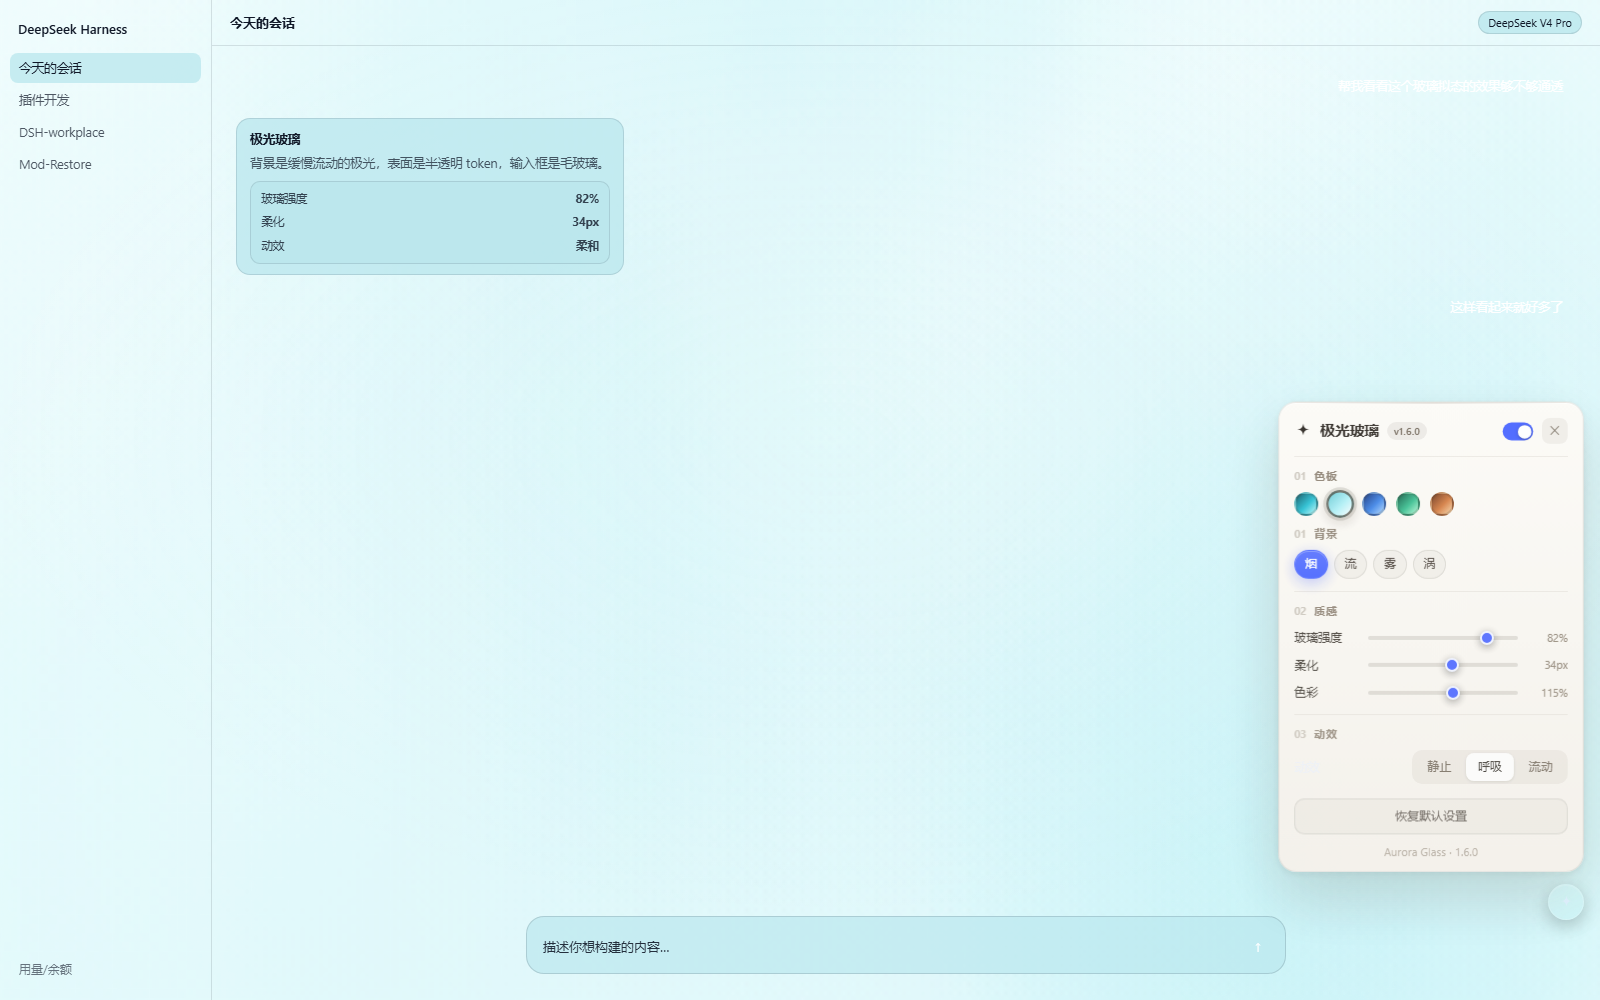
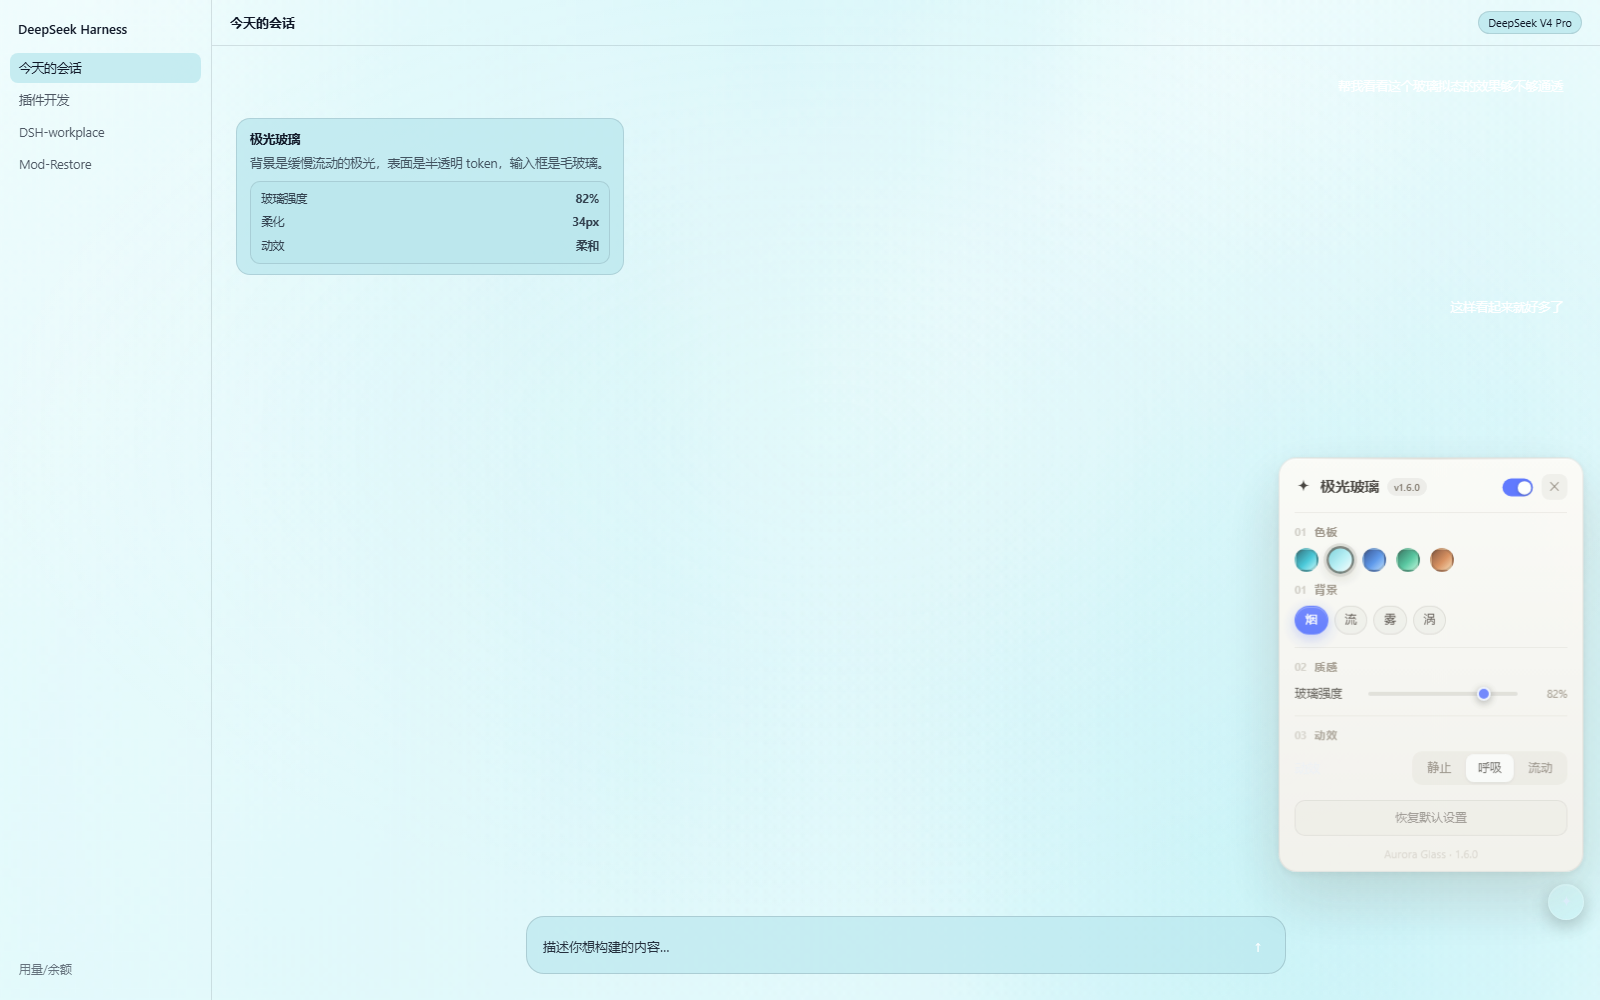
fix: v3.3.0 - slider jank root cause, black edge on hover, motion levels actually work

Changed region(s): [[0.7812, 0.403, 1.0, 0.713], [0.875, 0.806, 0.9062, 0.837]]

diff --git a/client.js b/client.js
@@ -536,15 +536,6 @@ body:not([data-ds-dark-theme]) [class*="composerSeat"] [class$="_card"]{
   box-shadow:0 16px 42px rgb(23 33 64 / .12), inset 0 1px 0 rgb(255 255 255 / .7) !important;
 }
 
-/* ---- global hover feedback ------------------------------------------ *
- * One rule for every control in the app, not just this plugin's panel, so
- * nothing feels dead under the cursor. brightness() only runs on a state
- * change, never per frame. !important because the host ships its own
- * hover rules that would otherwise win. */
-button,[role="button"],[role="menuitem"],[role="tab"],[role="option"],
-[role="switch"],[role="checkbox"],[role="radio"],summary,a{
-  transition:filter .16s ease !important;
-}
 button:hover,[role="button"]:hover,[role="menuitem"]:hover,
 [role="tab"]:hover,[role="option"]:hover,[role="switch"]:hover,
 [role="checkbox"]:hover,[role="radio"]:hover,summary:hover,a:hover{
@@ -926,6 +917,7 @@ body:not([data-ds-dark-theme]) .ag-swatch.on{ border-color:rgba(60,48,36,.7); bo
     }
 
     function paintNow() {
+      staticDrawn = false;
       if (rafPending) {
         cancelAnimationFrame(rafPending);
         rafPending = 0;
@@ -975,6 +967,7 @@ body:not([data-ds-dark-theme]) .ag-swatch.on{ border-color:rgba(60,48,36,.7); bo
 
     let panelScroll = 0;
     let sliderQueued = 0;
+    let staticDrawn = false;
 
     /* ---------------------------- hover copy ---------------------------- */
 
@@ -1102,7 +1095,7 @@ body:not([data-ds-dark-theme]) .ag-swatch.on{ border-color:rgba(60,48,36,.7); bo
           onInput: (e) => {
             // Shift = fine control (a tenth of the step)
             const raw = Number(e.target.value);
-            const v = e.shiftKey ? Math.round(raw * 10) / 10 : raw;
+            const v = e.shiftKey ? Math.round(raw * 20) / 20 : Math.round(raw * 20) / 20;
             state = { ...state, [key]: v };
             const out = refs['val-' + key];
             if (out) out.textContent = fmt(v);
@@ -1174,9 +1167,7 @@ body:not([data-ds-dark-theme]) .ag-swatch.on{ border-color:rgba(60,48,36,.7); bo
         ]),
         el('div', { class: 'ag-sec' }, [
           el('div', { class: 'ag-label', text: t('sec.surface') }),
-          slider('glass', t('ctl.glass'), 0, 1, 0.02, (v) => Math.round(v * 100) + '%'),
-          slider('blur', t('ctl.blur'), 0, 60, 2, (v) => Math.round(v) + 'px'),
-          slider('saturation', t('ctl.saturation'), 0, 2, 0.05, (v) => Math.round(v * 100) + '%'),
+          slider('glass', t('ctl.glass'), 0, 1, 0.05, (v) => Math.round(v * 100) + '%'),
         ]),
         el('div', { class: 'ag-sec' }, [
           el('div', { class: 'ag-label', text: t('sec.look') }),
@@ -1433,7 +1424,11 @@ body:not([data-ds-dark-theme]) .ag-swatch.on{ border-color:rgba(60,48,36,.7); bo
       silkSpeed += (target - silkSpeed) * 0.06;
       silkBurst *= 0.985;
       if (silkBurst < 0.01) silkBurst = 0;
-      silkT += dt * 0.00035 * silkSpeed;
+      // 静止 must really be still: freeze the clock instead of just slowing it
+      const motionScale = state.motion === 'off' ? 0 : state.motion === 'full' ? 1 : 0.35;
+      silkT += dt * 0.00035 * silkSpeed * motionScale;
+      // frozen clock means every frame would be identical: draw once, then stop
+      if (motionScale === 0 && staticDrawn) return;
 
       const W = silk.width || 384;
       const H = silk.height || 216;
@@ -1455,6 +1450,7 @@ body:not([data-ds-dark-theme]) .ag-swatch.on{ border-color:rgba(60,48,36,.7); bo
       // ripple rings belong to the fluid backdrops only — drawing them over the
       // others produced a field of rings that looked like a rendering fault
       ctx.filter = 'none';
+      staticDrawn = motionScale === 0;
     }
 
     function drawRippleRings() {

diff --git a/CHANGELOG.md b/CHANGELOG.md
@@ -3,6 +3,22 @@
 本文件记录 dsh-aurora-glass 的重要变更，采用简易维护格式（Keep a Changelog 风格）。
 All notable changes to dsh-aurora-glass, in a simple maintenance format (Keep a Changelog style).
 
+## [3.3.0] - 2026-10-26
+
+### Fixed
+
+- **滑杆卡顿（第三次修，这次是根因）**：真正的开销不是绘制，而是**改一个自定义属性会触发整篇文档的样式重算**——
+  `--ag-g` 被三十多个 token 引用，每动一格就要重算整棵树。
+  两个办法一起用：
+  1. **删掉"柔化"和"色彩"两个滑杆**。它们只作用于 CSS 极光层，而极光层在画布模式下是隐藏的——
+     也就是说它们**什么都不改，却每帧触发一次全量重算**。纯属白烧性能。
+  2. 玻璃强度**量化到 1/20 步进**，一次拖动只写约 20 次而不是 600 次。
+- **鼠标移到窗口边缘出现小黑边**：全局悬停用的 `filter: brightness()` 会给控件建立新的层叠上下文，
+  它的背景采样随之失效，于是在边缘露出一块暗色。**全局悬停滤镜整段删除**，反馈只留在面板自己的控件上。
+- **动效三档没有实质区别、静止也不静止**：之前 `silkT` 永远在累加，档位根本没接到时间上。
+  现在档位直接缩放时间（静止 ×0、呼吸 ×0.35、流动 ×1）；静止时画完一帧就**停止重绘**，
+  连那 10fps 都省了。
+
 ## [3.2.0] - 2026-10-26
 
 ### Fixed

diff --git a/README.md b/README.md
@@ -3,7 +3,7 @@
 > **`dsh-aurora-glass`** — 为 DeepSeek Harness（DSH）打造的全局玻璃拟态 + 极光渐变主题插件。
 > A global glassmorphism + aurora theme plugin for DeepSeek Harness.
 
-![Version](https://img.shields.io/badge/version-3.2.0-8fb0ff) ![License](https://img.shields.io/badge/license-MIT-059669) ![Platform](https://img.shields.io/badge/platform-DeepSeek%20Harness-4763ff) ![Dependencies](https://img.shields.io/badge/dependencies-0-0b7bf1)
+![Version](https://img.shields.io/badge/version-3.3.0-8fb0ff) ![License](https://img.shields.io/badge/license-MIT-059669) ![Platform](https://img.shields.io/badge/platform-DeepSeek%20Harness-4763ff) ![Dependencies](https://img.shields.io/badge/dependencies-0-0b7bf1)
 
 <p align="center">
   <img src="docs/preview-light.png" alt="烟 · 浅青（浅色）" width="780">
